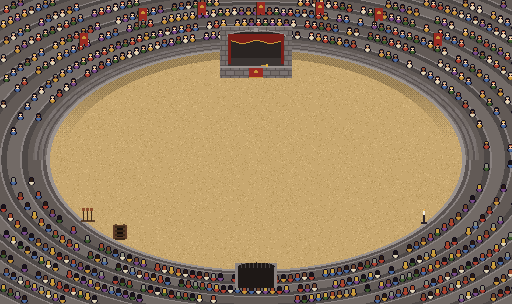
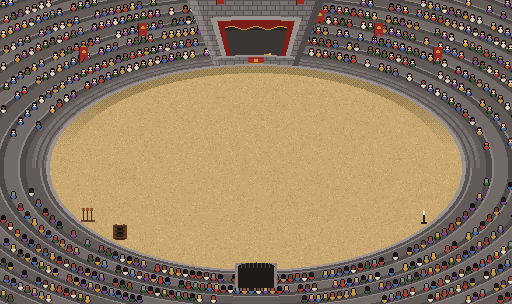
The commentator's box as a wedge of the Colosseum's ring
It follows the same oval as the tiers: the arena wall built up into a parapet with the Crown's cloth, the box
recessed behind it under a curtain and an arch, solid stone above it to the top of the stands. Barnaby stands in it,
back from the sand.

Claude-Session: https://claude.ai/code/session_01M3Peeuj4v63JAjidnU8Moq

diff --git a/EPISODES.md b/EPISODES.md
@@ -66,8 +66,10 @@ don't follow the crime (twenty, then *one*, then fifty), and the last one gets a
 - **Episode 13, "Unacceptable"** (`node scripts/episode-video.mjs 13`, 16.2 s: allowed up to about twenty, author,
   "its dialogue is too fast"; `read: 1.45`). Two fixed shots, cut between, never panned (author: "camera angles are
   video game like"): the ring (you in the middle, your three side by side on your left, Brannoc a few tiles off on your
-  right) and Barnaby in his commentator's box, set into the tiers at the head of the sand like an emperor's box, in the
-  arena's own stone (an arch, a red curtain inside, a stone parapet at the sand's edge with the Crown's cloth on it). The Warden is out of sight; he enters
+  right) and Barnaby in his commentator's box, a wedge of the Colosseum's own ring at the head of the sand, following the
+  same oval as the tiers (author: "the circle that is the colosseum should include the box"): the arena wall built up
+  into a parapet with the Crown's cloth, the box recessed behind it under a red curtain and an arch, solid stone above
+  hiding the crowd behind it. The Warden is out of sight; he enters
   with the arena shaking, later. Barnaby (box): "Well, well, well. If it isn't our final contestants." The menu: *I was
   just going for a walk.* Barnaby (box, the screen jolts): "UNACCEPTABLE." / "You will pay with your lives!" Brannoc
   (ring): "P-P-Pay with our lives!?" and he passes out flat, away from you, Zs and a snot bubble. Your three: Silas Seen "I pulled a muscle on
